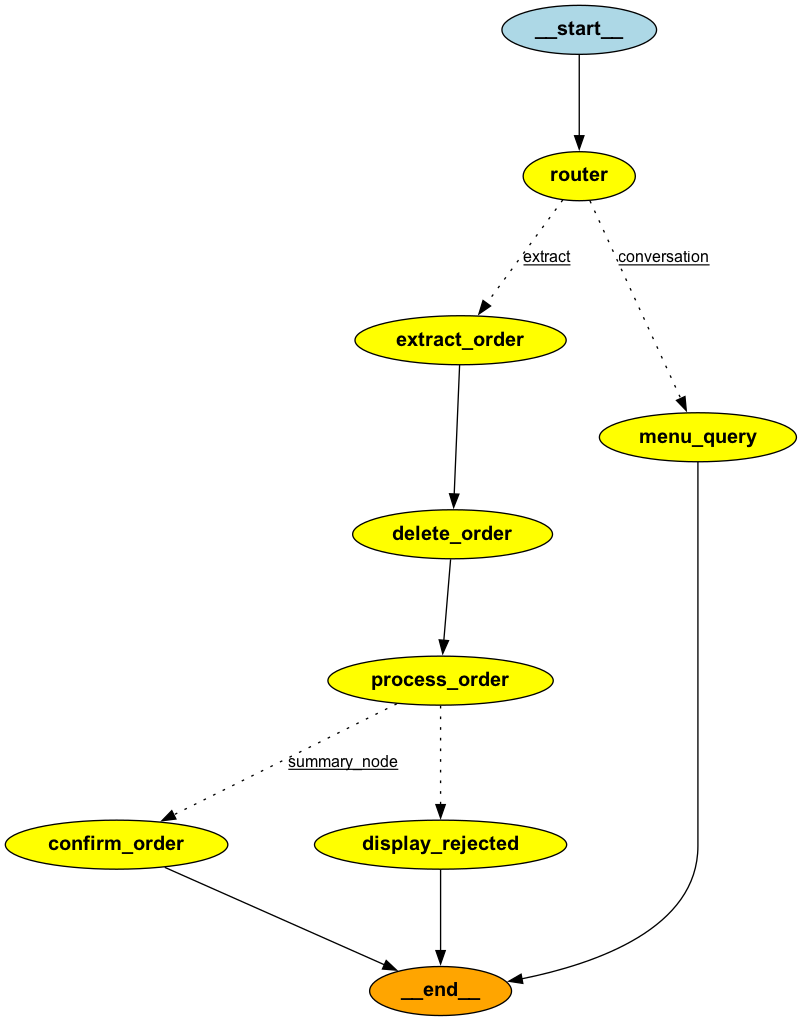
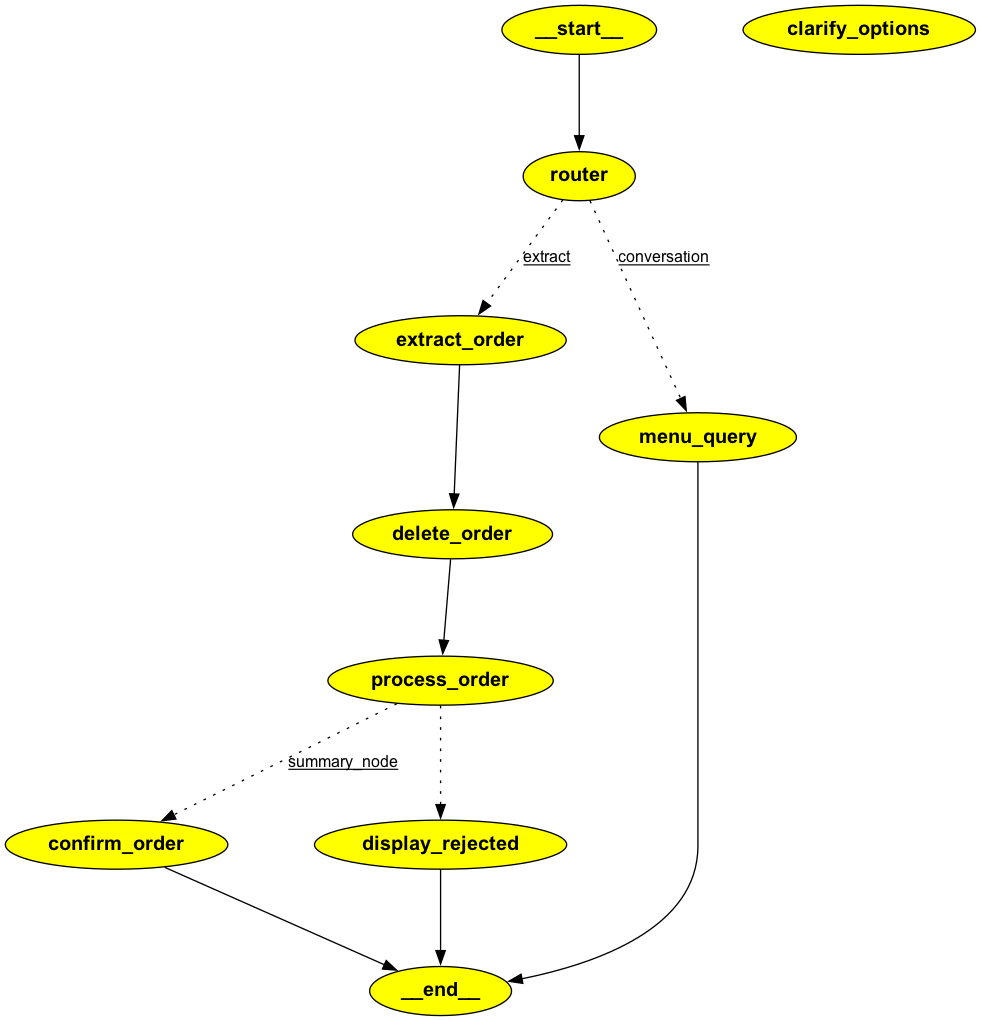
WORKING - chatbot and inventory synced

diff --git a/basic_nodes_bot.py b/basic_nodes_bot.py
@@ -20,8 +20,7 @@ from langgraph.checkpoint.memory import MemorySaver
 
 from rank_bm25 import BM25Okapi
 from searchers import MultiSearch
-# Removed: from langchain_community.vectorstores import FAISS # No longer needed for processOrder as a direct node
-
+from langchain_community.vectorstores import FAISS 
 from langchain_huggingface import HuggingFaceEmbeddings
 
 from promptstore import orderPrompt, conversationPrompt, routerPrompt
@@ -47,7 +46,7 @@ warnings.filterwarnings("ignore")
 DB_CONFIG = {
     'host': 'localhost',
     'user': 'root',        # Your MySQL username
-    'password': '12345678', # Your MySQL password
+    'password': '1234', # Your MySQL password
     'database': 'restaurant_new_db' # The database where 'Orders' table is
 }
 # ----------------------------------------------------
@@ -578,29 +577,19 @@ def confirm_order(state: State):
     return {"messages": [msg]}
 
 def checkRejected(state: State):
-    """Checks for rejected items and routes accordingly."""
     rej_items = state.get("rejected_items", [])
-    if not rej_items:
+    if not len(rej_items):
         return "summary_node"
-   
-    for item in rej_items:
-        if item.get('reason') == 'similar_items':
-            return "clarify_options"
-
-    return "menu_query"
+    else:
+        return "display_rejected"
 
 def display_rejected(state: State):
-    """Displays information about rejected items and suggested alternatives."""
     rej_items = state.get("rejected_items", [])
-    
-    unavailable_items = [item['original_request'] for item in rej_items]
-    alternatives = []
-    for item in rej_items:
-        if 'similar_items' in item:
-            alternatives.extend(item['similar_items'])
-    
-    m = AIMessage(f"The following items - {unavailable_items} are unavailable. You can try these alternatives from our menu instead: {alternatives}", name="display_rejected")
+
+    m = AIMessage(f"The following items - {[n for (n, m) in rej_items]} are unavailable. You can try these alternatives from our menu instead: {[m for (n, m) in rej_items]}", name="display_rejected")
+
     return {"messages": [m]}
+
 
 def clarify_options_node(state: State):
     """Provides clarification options for rejected items."""

diff --git a/inventory_depletion.py b/inventory_depletion.py
@@ -3,7 +3,7 @@ import json
 from datetime import datetime
 
 # Corrected: Import Item from Classes.py
-from Classes import Item # Assuming Item class is defined in Classes.py
+from classes import Item # Assuming Item class is defined in Classes.py
 
 # --- IMPORTANT: MySQL DB_CONFIG for inventory_depletion.py ---
 # Ensure these details match your 'restaurant_new_db' setup.
